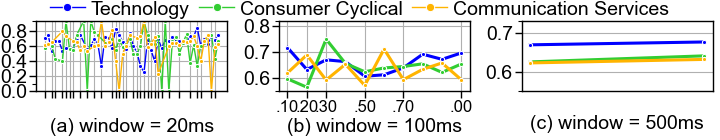
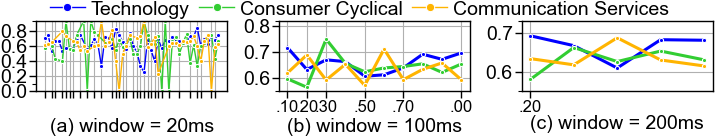
exp

Changed region(s): [[0.7333, 0.2286, 0.9778, 0.5714], [0.7028, 0.6571, 0.7639, 0.8], [0.8861, 0.8286, 0.9167, 0.9143]]

diff --git a/experiments/stocks/stock_nanosecond/window_size_sensitivity/traditional/merge_into_one_figure_2x3.py b/experiments/stocks/stock_nanosecond/window_size_sensitivity/traditional/merge_into_one_figure_2x3.py
@@ -128,7 +128,7 @@ for i in range(0, len(window_size_unit_list)):
         lst = result_file_list[window_size]['ts_event'].unique().tolist()
         timestamp_values = np.array([pd.Timestamp(time).value for time in lst])  # Convert to numeric values
         tick_idx = []
-        df_below_threshold = result_file_list[window_size][result_file_list[window_size]['accuracy'] < 0.1]
+        df_below_threshold = result_file_list[window_size][result_file_list[window_size]['accuracy'] < 0.6]
         df_below_threshold = df_below_threshold[1:]
 
         # for tick_time in manual_ticks:
@@ -156,7 +156,7 @@ for i in range(0, len(window_size_unit_list)):
             df_below_threshold = result_file_list[window_size][result_file_list[window_size]['accuracy'] < 0.6]
         elif i == 5:
             df_below_threshold = result_file_list[window_size][result_file_list[window_size]['accuracy'] < 0.6]
-
+    print("len(df_below_threshold)", len(df_below_threshold))
     # Extract unique timestamps where accuracy is below the threshold
     unique_below_threshold_times = df_below_threshold["ts_event"].unique()
 

diff --git a/experiments/stocks/stock_nanosecond/window_size_sensitivity/traditional/merge_into_one_figure_1x3.py b/experiments/stocks/stock_nanosecond/window_size_sensitivity/traditional/merge_into_one_figure_1x3.py
@@ -30,7 +30,7 @@ sector_list = ['Technology', 'Consumer Cyclical', 'Communication Services']
 # window_size_unit_list = ["100ms", "200ms", "500ms", "1s", "2s", "5s"]
 
 
-window_size_unit_list = ["20ms", "100ms", "500ms"]
+window_size_unit_list = ["20ms", "100ms", "200ms"]
 
 
 result_file_list = dict()
